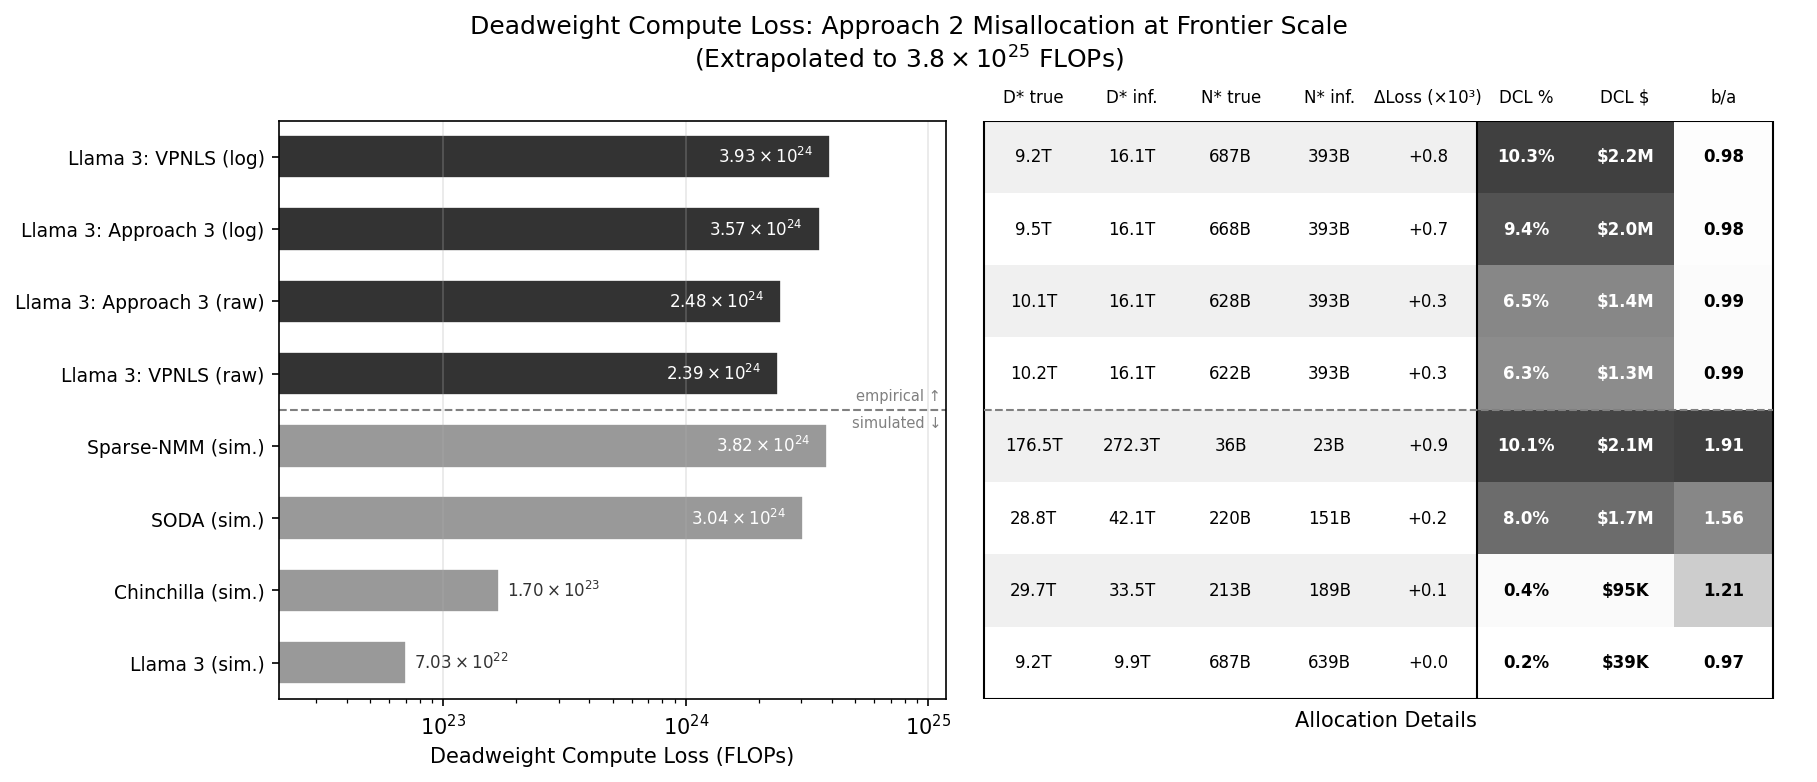
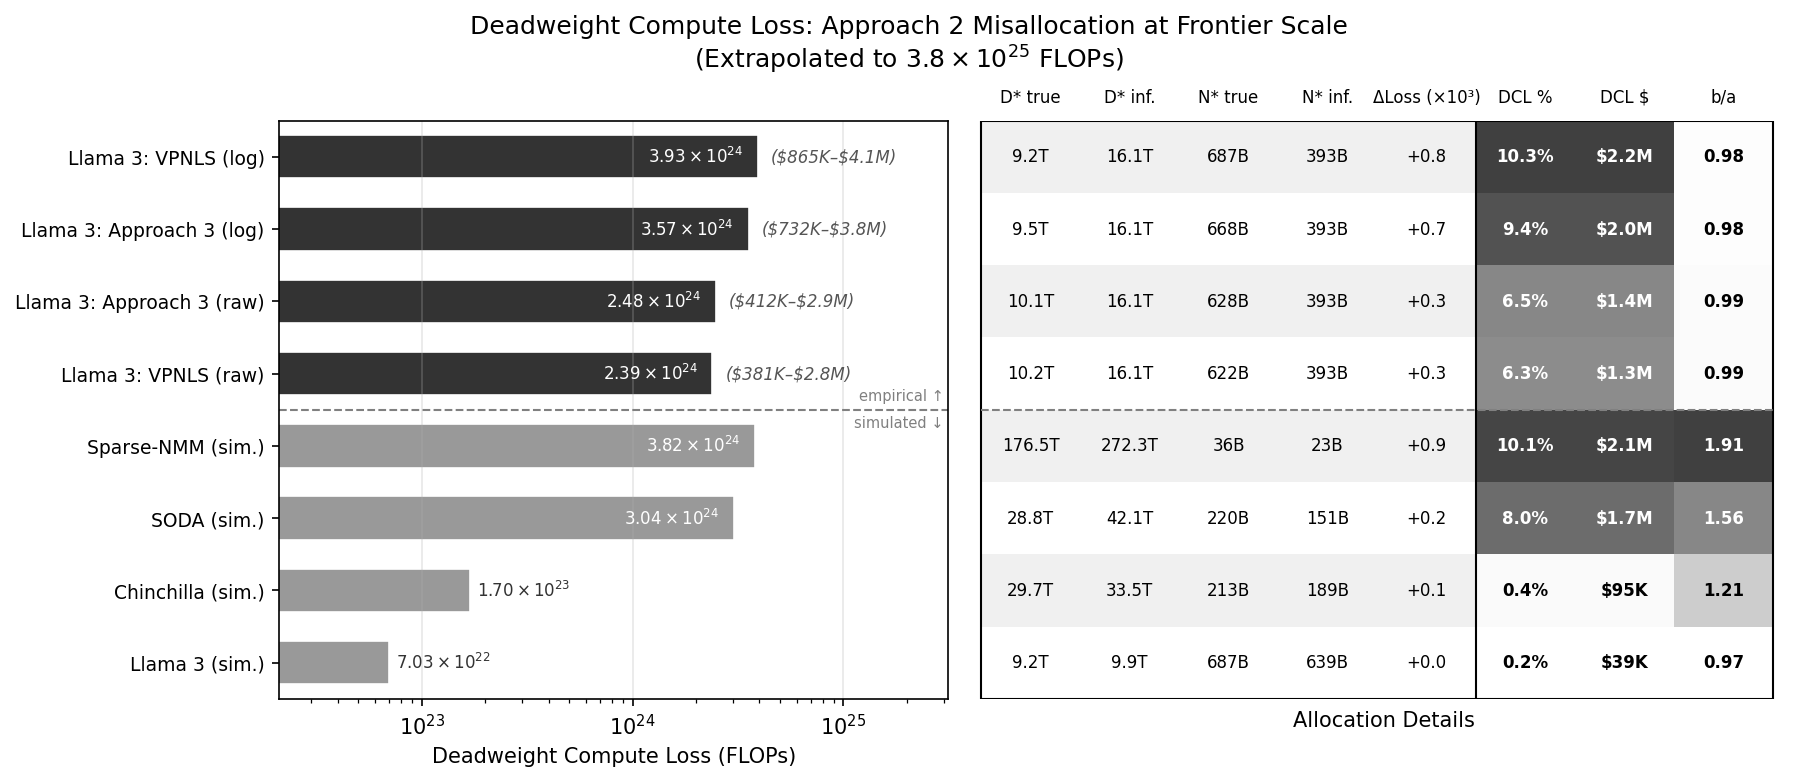
feat: add bootstrap 90% CI annotations to DCL bar chart
Add within-budget bootstrap resampling (100 iterations) to compute
empirical confidence intervals on Llama 3 DCL estimates. Only Approach 2
is refit on resamples; A3/VPNLS surfaces are held fixed. CIs shown as
parenthesized dollar ranges next to each empirical bar.

diff --git a/src/scaling_law_analysis/experiments/exp11_cost_estimates.py b/src/scaling_law_analysis/experiments/exp11_cost_estimates.py
@@ -624,6 +624,76 @@ class DCLRow:
     surface: LossSurface
     eval_budget: float
     ba_ratio: float  # b/a from Approach 3 fit (α/(α+β)) / (β/(α+β)) = α/β
+    dcl_ci_lo: float | None = None
+    dcl_ci_hi: float | None = None
+
+
+def _resample_within_budgets(
+    N: np.ndarray,
+    D: np.ndarray,
+    L: np.ndarray,
+    C: np.ndarray,
+    rng: np.random.Generator,
+) -> tuple[np.ndarray, np.ndarray, np.ndarray, np.ndarray]:
+    """Resample points within each budget (with replacement, preserving count)."""
+    new_indices: list[int] = []
+    for budget in np.unique(C):
+        indices = np.where(C == budget)[0]
+        resampled = rng.choice(indices, size=len(indices), replace=True)
+        new_indices.extend(resampled.tolist())
+    idx = np.array(new_indices)
+    return N[idx], D[idx], L[idx], C[idx]
+
+
+def _bootstrap_dcl(
+    N: np.ndarray,
+    D: np.ndarray,
+    L: np.ndarray,
+    C: np.ndarray,
+    vpnls_surface: LossSurface,
+    a3_surface: LossSurface,
+    eval_budget: float,
+    n_boot: int = 100,
+    seed: int = 42,
+) -> dict[str, tuple[float, float]]:
+    """Bootstrap 90% CIs for DCL via within-budget resampling.
+
+    Ground-truth surfaces (A3/VPNLS) are fixed; only A2 is refit on each
+    resample.  Returns dict with keys "vpnls" and "a3", each mapping to
+    (ci_lo, ci_hi).
+    """
+    rng = np.random.default_rng(seed)
+    dcl_vpnls: list[float] = []
+    dcl_a3: list[float] = []
+    n_failed = 0
+
+    for i in range(n_boot):
+        N_b, D_b, L_b, C_b = _resample_within_budgets(N, D, L, C, rng)
+        try:
+            a2_r = fit_approach2(N_b, D_b, L_b, C_b)
+            dcl_vpnls.append(
+                compare_allocations(vpnls_surface, a2_r, eval_budget)["wasted_flops"]
+            )
+            dcl_a3.append(
+                compare_allocations(a3_surface, a2_r, eval_budget)["wasted_flops"]
+            )
+        except Exception:
+            n_failed += 1
+            continue
+        if (i + 1) % 10 == 0:
+            print(f"  Bootstrap: {i + 1}/{n_boot} " f"({n_failed} failed)")
+
+    print(f"  Bootstrap complete: {len(dcl_vpnls)}/{n_boot} successful")
+    return {
+        "vpnls": (
+            float(np.percentile(dcl_vpnls, 5)),
+            float(np.percentile(dcl_vpnls, 95)),
+        ),
+        "a3": (
+            float(np.percentile(dcl_a3, 5)),
+            float(np.percentile(dcl_a3, 95)),
+        ),
+    }
 
 
 def _collect_dcl_rows(
@@ -631,6 +701,7 @@ def _collect_dcl_rows(
     training_budgets: np.ndarray,
     surfaces: SurfaceList,
     llama3_comparisons: list[Llama3FitSet],
+    bootstrap_cis: dict[str, tuple[float, float]] | None = None,
 ) -> list[DCLRow]:
     """Collect all DCL rows for the summary figure."""
     _, log_range = next(g for g in GRID_WIDTHS if g[0] == REPORT_GRID)
@@ -645,15 +716,19 @@ def _collect_dcl_rows(
             ("VPNLS", vpnls_surface),
             ("Approach 3", a3_surface),
         ]:
+            label = f"Llama 3: {method_label} ({scale_tag})"
             d = compare_allocations(surface, llama3_a2, eval_budget)
+            ci = (bootstrap_cis or {}).get(label)
             rows.append(
                 DCLRow(
-                    label=f"Llama 3: {method_label} ({scale_tag})",
+                    label=label,
                     group="real",
                     d=d,
                     surface=surface,
                     eval_budget=eval_budget,
                     ba_ratio=a3_ba,
+                    dcl_ci_lo=ci[0] if ci else None,
+                    dcl_ci_hi=ci[1] if ci else None,
                 )
             )
 
@@ -779,7 +854,7 @@ def plot_dcl_summary(
     max_val = max(dcl_vals)
     min_val = min(dcl_vals)
     ax_bar.set_xscale("log")
-    ax_bar.set_xlim(min_val * 0.3, max_val * 3)
+    ax_bar.set_xlim(min_val * 0.3, max_val * 8)
 
     # Value labels — inside bar for large bars, just outside for small
     threshold = max_val * 0.05  # bars < 5% of max get outside labels
@@ -805,6 +880,25 @@ def plot_dcl_summary(
                 fontsize=8,
                 color="#333333",
                 fontweight="bold",
+            )
+
+    # Bootstrap CI $ annotations (bracket notation, anchored to bar end)
+    for idx, row in enumerate(ordered):
+        if row.dcl_ci_lo is not None and row.dcl_ci_hi is not None:
+            lo_dollars = fmt_dollars(_flops_to_dollars(row.dcl_ci_lo))
+            hi_dollars = fmt_dollars(_flops_to_dollars(row.dcl_ci_hi))
+            # Escape $ so matplotlib mathtext doesn't interpret them
+            lo_esc = lo_dollars.replace("$", r"\$")
+            hi_esc = hi_dollars.replace("$", r"\$")
+            ax_bar.text(
+                dcl_vals[idx] * 1.15,
+                y_pos[idx],
+                f"({lo_esc}\u2013{hi_esc})",
+                va="center",
+                ha="left",
+                fontsize=8,
+                color="#555555",
+                fontstyle="italic",
             )
 
     ax_bar.set_yticks(y_pos)
@@ -1163,12 +1257,14 @@ def main() -> None:
 
     # Fit Llama 3 isoFLOP data under both log-scale assumptions.
     llama3_comparisons: list[Llama3FitSet] = []
+    llama3_data: dict[bool, tuple[np.ndarray, np.ndarray, np.ndarray, np.ndarray]] = {}
     primary_vpnls: LossSurface | None = None
     for log_scale in [True, False]:
         label = "log-scale" if log_scale else "raw nats"
         print(f"\n── Llama 3 fits ({label}) ──")
         experiment = _LLAMA3_EXPERIMENT[log_scale]
         N, D, L, C = _load_isoflop_data(experiment, filter_outliers=FILTER_OUTLIERS)
+        llama3_data[log_scale] = (N, D, L, C)
         vpnls = _fit_vpnls("Llama 3", N, D, L)
         a3 = _fit_a3("Llama 3", N, D, L)
         a2 = _fit_a2("Llama 3", N, D, L, C)
@@ -1205,12 +1301,25 @@ def main() -> None:
         llama3_comparisons=llama3_comparisons,
     )
 
+    # Bootstrap CIs for empirical Llama 3 DCL estimates
+    bootstrap_cis: dict[str, tuple[float, float]] = {}
+    for log_scale, vpnls_surf, a3_surf, _ in llama3_comparisons:
+        scale_tag = "log" if log_scale else "raw"
+        N, D, L, C = llama3_data[log_scale]
+        print(f"\n── Bootstrap DCL (Llama 3, {scale_tag}) ──")
+        cis = _bootstrap_dcl(
+            N, D, L, C, vpnls_surf, a3_surf, eval_budget=LLAMA3_405B_FLOPS
+        )
+        bootstrap_cis[f"Llama 3: VPNLS ({scale_tag})"] = cis["vpnls"]
+        bootstrap_cis[f"Llama 3: Approach 3 ({scale_tag})"] = cis["a3"]
+
     # DCL summary figure
     dcl_rows = _collect_dcl_rows(
         eval_budget=LLAMA3_405B_FLOPS,
         training_budgets=TRAINING_BUDGETS,
         surfaces=surfaces,
         llama3_comparisons=llama3_comparisons,
+        bootstrap_cis=bootstrap_cis,
     )
     plot_dcl_summary(
         dcl_rows,
